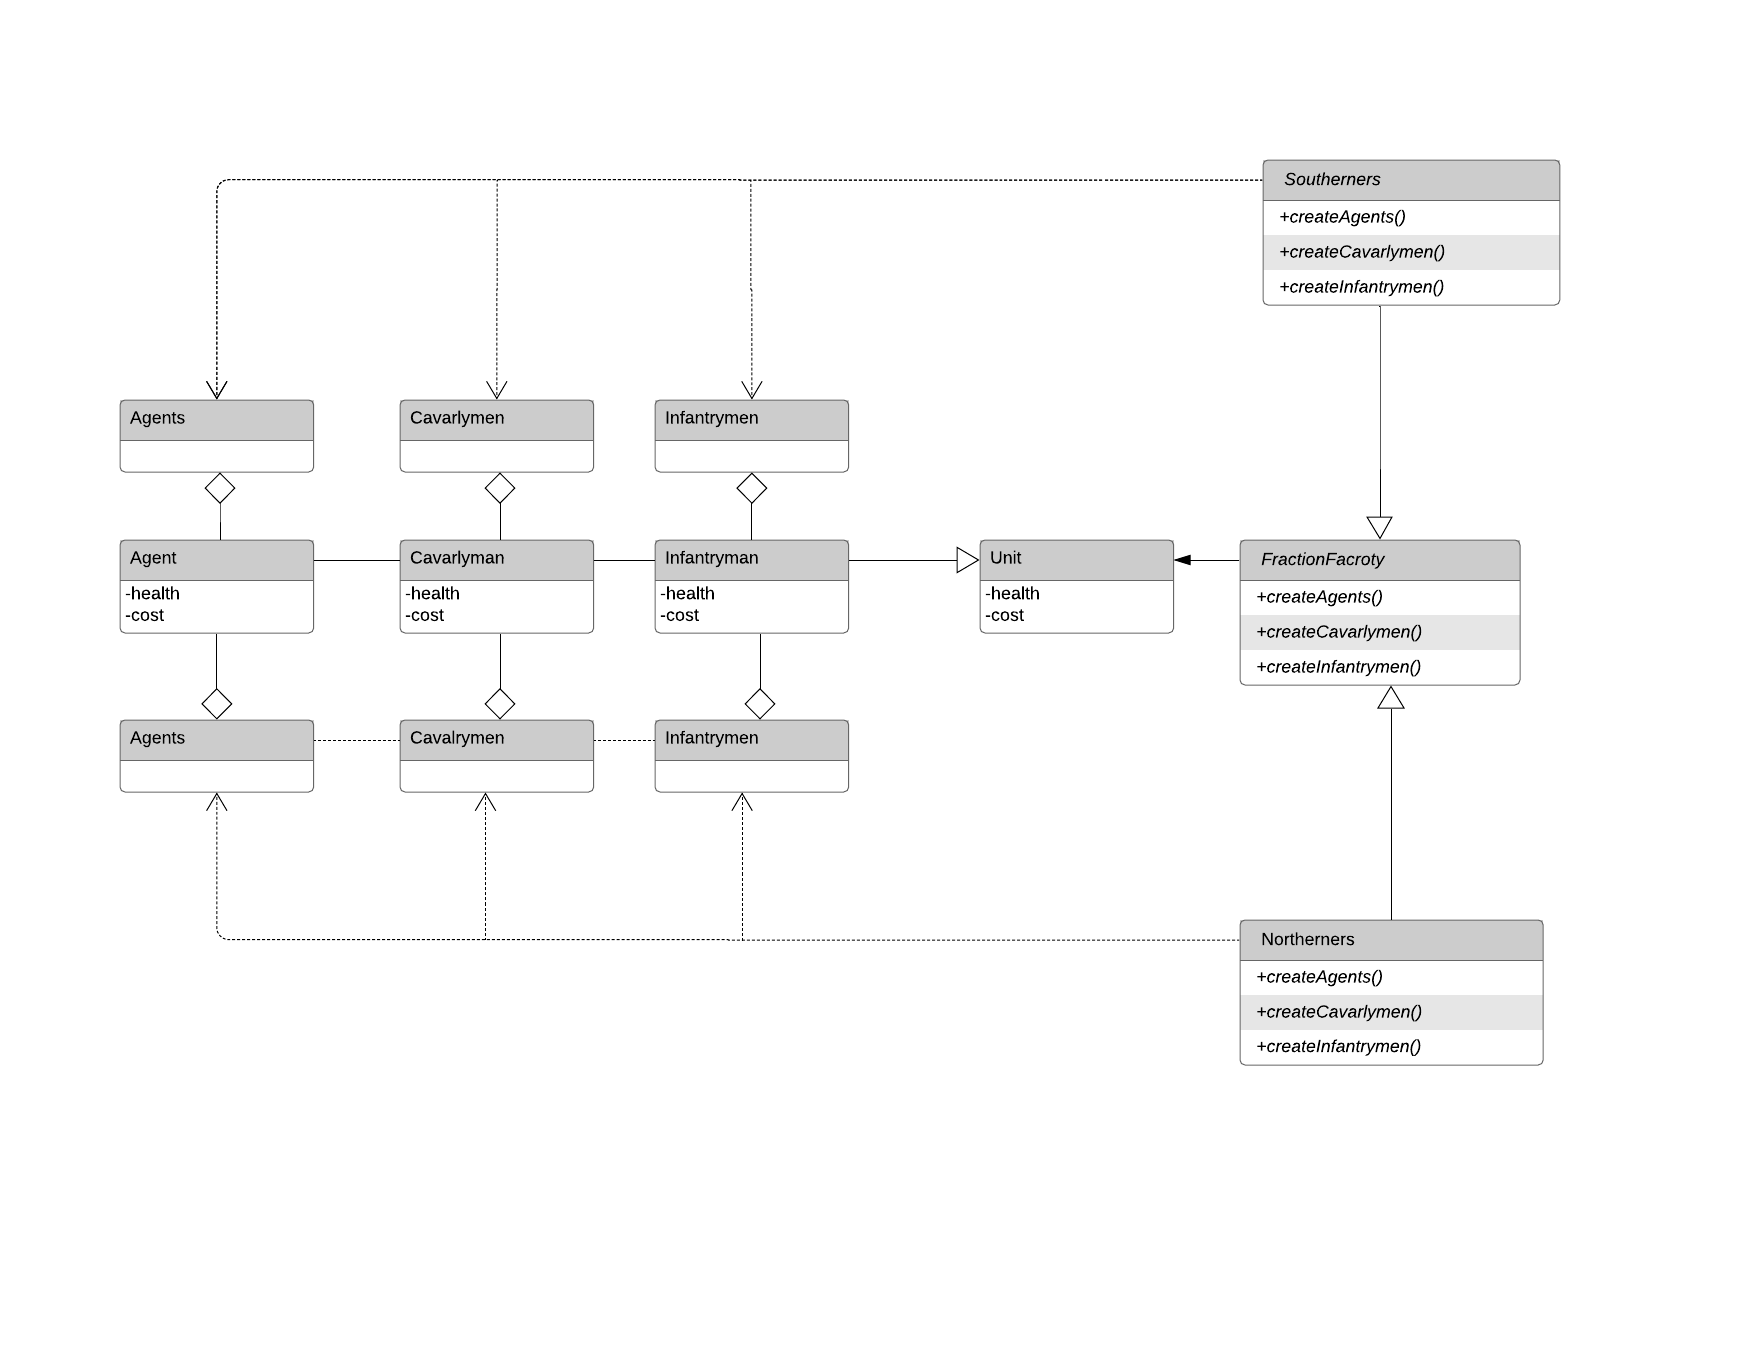
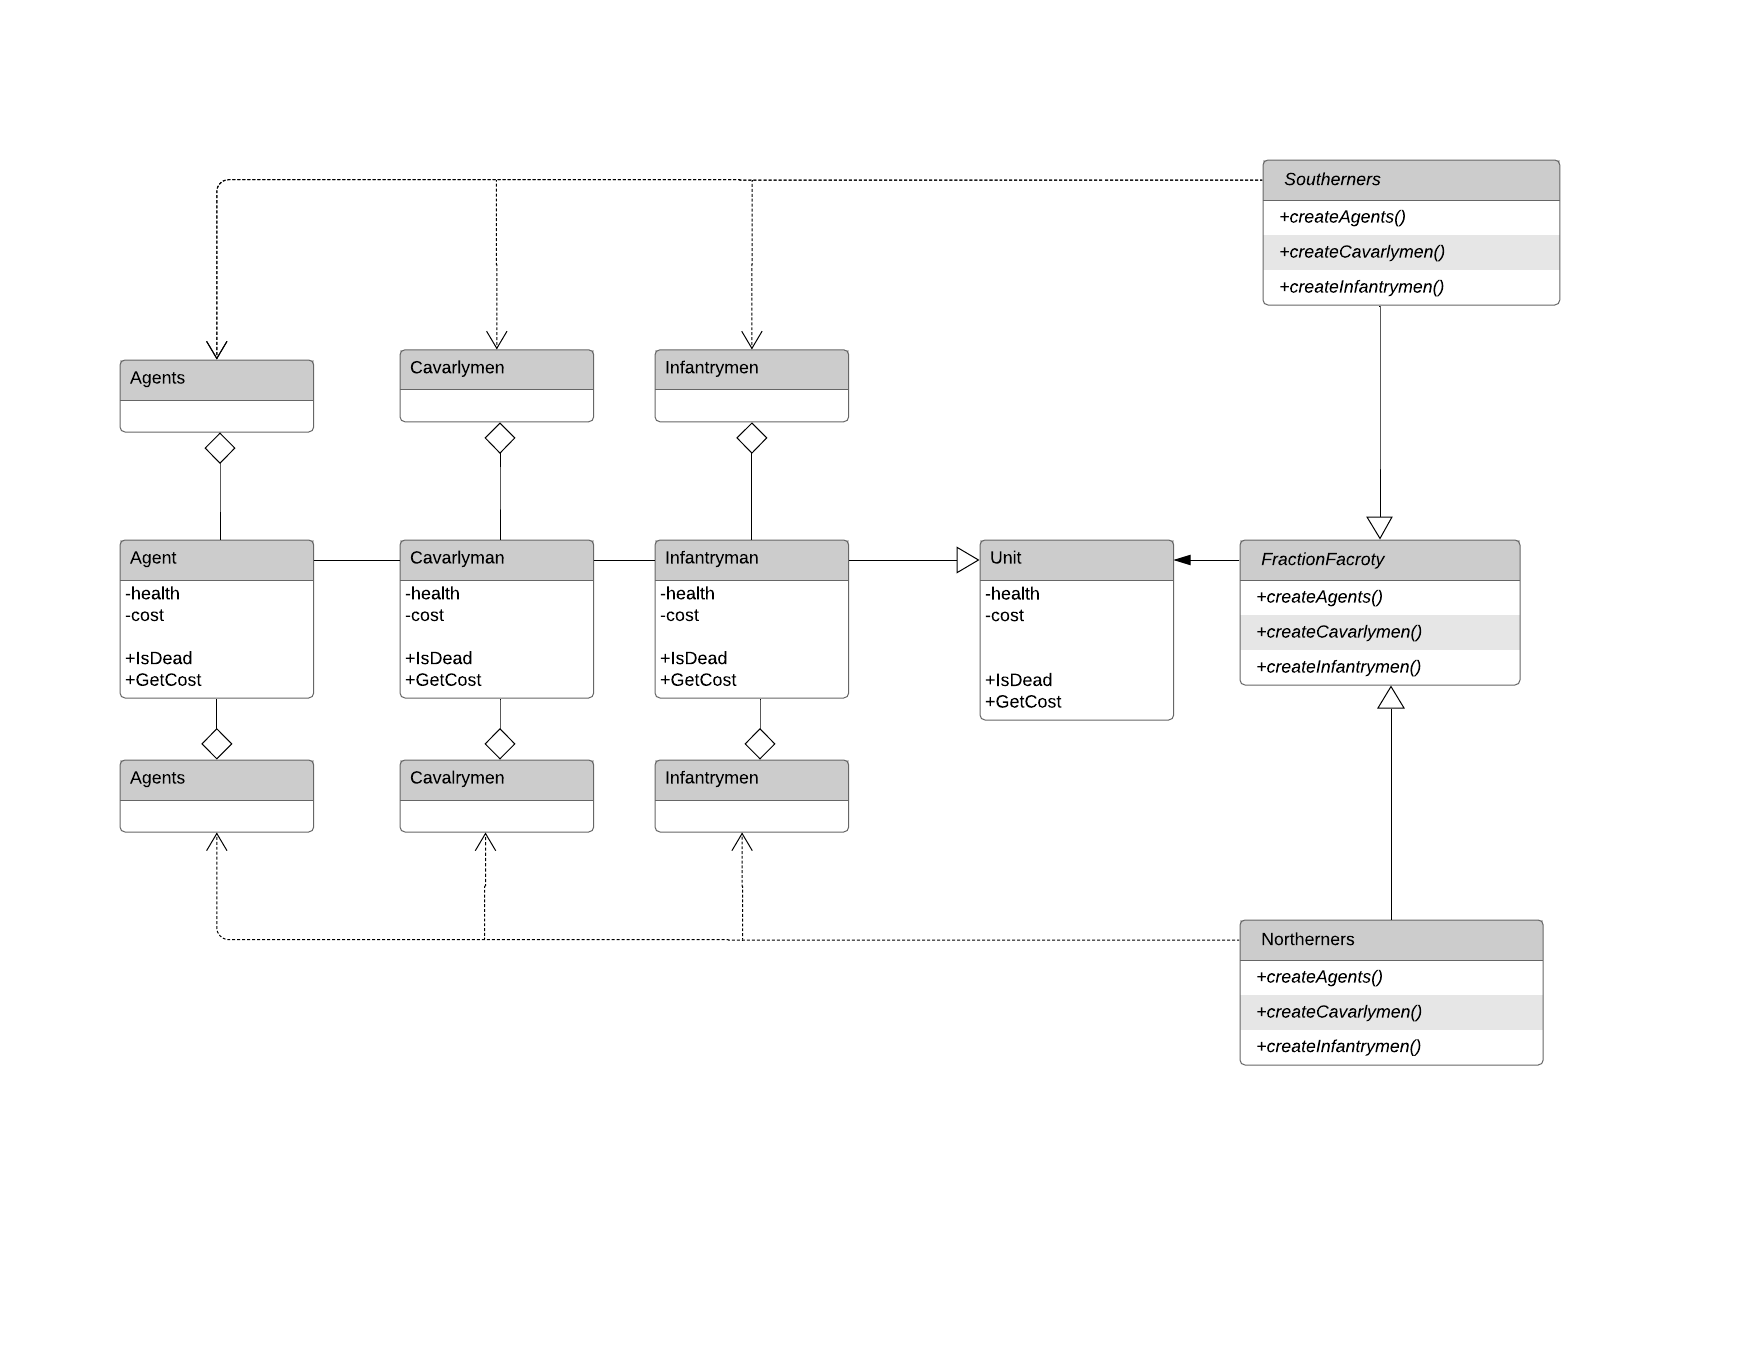
Added tests and divided into folders

diff --git a/tests/tests.cpp b/tests/tests.cpp
@@ -1,0 +1,86 @@
+#include <gtest/gtest.h>
+
+#include "Units.h"
+#include "UnitFactories.h"
+
+class UnitFixture : public ::testing::Test {
+public:
+    virtual ~UnitFixture() {
+        delete u;
+        delete a;
+        delete c;
+        delete i;
+    }
+
+protected:
+    virtual void SetUp() {
+        u = new Unit();
+        a = new Agent();
+        c = new Cavalryman();
+        i = new Infantryman();
+    }
+
+    Unit* u;
+    Agent* a;
+    Cavalryman* c;
+    Infantryman* i;
+};
+
+class FactoryFixture : public ::testing::Test {
+public:
+    virtual ~FactoryFixture() {
+        n->CreateCavalrymen().clear();
+        n->CreateInfantrymen().clear();
+        n->CreateAgents().clear();
+        delete n;
+
+        s->CreateCavalrymen().clear();
+        s->CreateInfantrymen().clear();
+        s->CreateAgents().clear();
+        delete s;
+    }
+
+protected:
+    virtual void SetUp() {
+        n = new Northerners();
+        s = new Southerners();
+    }
+
+    Northerners* n;
+    Southerners* s;
+};
+
+TEST_F(UnitFixture, CheckUnitsCost) {
+    ASSERT_EQ(0, u->GetCost());
+    ASSERT_EQ(1500, a->GetCost());
+    ASSERT_EQ(1000, c->GetCost());
+    ASSERT_EQ(500, i->GetCost());
+    
+}
+
+TEST_F(UnitFixture, CheckUnitStatus) {
+    ASSERT_EQ(true, u->IsDead());
+    ASSERT_EQ(false, a->IsDead());
+    ASSERT_EQ(false, c->IsDead());
+    ASSERT_EQ(false, i->IsDead());
+}
+
+TEST_F(FactoryFixture, CheckNorthernersComplectation) {
+    ASSERT_EQ(n->CreateInfantrymen().size(), 20);
+    ASSERT_EQ(n->CreateAgents().size(), 1);
+    ASSERT_EQ(n->CreateCavalrymen().size(), 15);
+}
+
+TEST_F(FactoryFixture, CheckSouthernersComplectation) {
+    ASSERT_EQ(s->CreateInfantrymen().size(), 20);
+    ASSERT_EQ(s->CreateAgents().size(), 2);
+    ASSERT_EQ(s->CreateCavalrymen().size(), 10);
+}
+
+
+int main(int argc, char **argv) {
+	::testing::InitGoogleTest(&argc, argv);
+	return RUN_ALL_TESTS();
+}
+
+

diff --git a/tests/UnitFactories.h b/tests/UnitFactories.h
@@ -1,0 +1,72 @@
+#ifndef GAME_UNITFACTORIES_H
+#define GAME_UNITFACTORIES_H
+
+#include <vector>
+#include "Units.h"
+
+class Army {
+    std::vector<Cavalryman*> cavalrymen_;
+    std::vector<Infantryman*> infantrymen_;
+    std::vector<Agent*> agents_;
+
+public:
+    Army() = default;
+    ~Army() {
+        cavalrymen_.clear();
+        infantrymen_.clear();
+        agents_.clear();
+    }
+
+    void AddCavalrymen(const std::vector<Cavalryman*> cavalrymen) {
+        for (auto cm : cavalrymen) {
+            cavalrymen_.push_back(cm);
+        }
+    }
+
+    void AddInfantrymen(std::vector<Infantryman*> infantrymen) {
+        for (auto im : infantrymen) {
+            infantrymen_.push_back(im);
+        }
+    }
+
+    void AddAgents(std::vector<Agent*> agents) {
+        for (auto a : agents) {
+            agents_.push_back(a);
+        }
+    }
+};
+
+//abstract factory
+class FractionFactory {
+public:
+    virtual std::vector<Cavalryman*> CreateCavalrymen() = 0;
+    virtual std::vector<Infantryman*> CreateInfantrymen() = 0;
+    virtual std::vector<Agent*> CreateAgents() = 0;
+};
+
+//concrete factory
+class Southerners : public FractionFactory {
+    const static int kCavalrymenCount = 10;
+    const static int kInfantrymenCount = 20;
+    const static int kAgentCount = 2;
+
+public:
+    std::vector<Cavalryman*> CreateCavalrymen() override;
+    std::vector<Infantryman*> CreateInfantrymen() override ;
+    std::vector<Agent*> CreateAgents() override ;
+};
+
+//concrete factory
+class Northerners : public FractionFactory {
+    const static int kCavalrymenCount = 15;
+    const static int kInfantrymenCount = 20;
+    const static int kAgentCount = 1;
+
+public:
+    std::vector<Cavalryman*> CreateCavalrymen() override;
+    std::vector<Infantryman*> CreateInfantrymen() override ;
+    std::vector<Agent*> CreateAgents() override ;
+};
+
+
+#endif //GAME_UNITFACTORIES_H

diff --git a/tests/UnitFactories.cpp b/tests/UnitFactories.cpp
@@ -1,0 +1,67 @@
+#include "UnitFactories.h"
+
+//============ Southerners ============//
+
+std::vector<Cavalryman*> Southerners::CreateCavalrymen() {
+    std::vector<Cavalryman*> cavalrymen;
+    cavalrymen.reserve(kCavalrymenCount);
+
+    for (int i = 0; i < kCavalrymenCount; ++i) {
+        cavalrymen.push_back(new Cavalryman);
+    }
+
+    return cavalrymen;
+}
+
+std::vector<Infantryman*> Southerners::CreateInfantrymen() {
+    std::vector<Infantryman*> infantrymen;
+    infantrymen.reserve(kInfantrymenCount);
+    for (int i = 0; i < kInfantrymenCount; ++i) {
+        infantrymen.push_back(new Infantryman);
+    }
+
+    return infantrymen;
+}
+
+std::vector<Agent*> Southerners::CreateAgents() {
+    std::vector<Agent*> agents;
+    agents.reserve(kAgentCount);
+    for (int i = 0; i < kAgentCount; ++i) {
+        agents.push_back(new Agent);
+    }
+
+    return agents;
+}
+
+//============ Northerners ============//
+
+std::vector<Cavalryman*> Northerners::CreateCavalrymen() {
+    std::vector<Cavalryman*> cavalrymen;
+    cavalrymen.reserve(kCavalrymenCount);
+
+    for (int i = 0; i < kCavalrymenCount; ++i) {
+        cavalrymen.push_back(new Cavalryman);
+    }
+
+    return cavalrymen;
+}
+
+std::vector<Infantryman*> Northerners::CreateInfantrymen() {
+    std::vector<Infantryman*> infantrymen;
+    infantrymen.reserve(kInfantrymenCount);
+    for (int i = 0; i < kInfantrymenCount; ++i) {
+        infantrymen.push_back(new Infantryman);
+    }
+
+    return infantrymen;
+}
+
+std::vector<Agent*> Northerners::CreateAgents() {
+    std::vector<Agent*> agents;
+    agents.reserve(kAgentCount);
+    for (int i = 0; i < kAgentCount; ++i) {
+        agents.push_back(new Agent);
+    }
+
+    return agents;
+}

diff --git a/tests/Units.h b/tests/Units.h
@@ -1,0 +1,56 @@
+#ifndef GAME_UNITS_H
+#define GAME_UNITS_H
+
+class Unit {
+protected:
+    int health_ = 0;
+    int cost_ = 0;
+
+public:
+    Unit() = default;
+    ~Unit() = default;
+
+    bool IsDead() {
+        return health_ <= 0;
+    }
+
+    int GetCost() {
+        return cost_;
+    }
+};
+
+class Agent : public Unit {
+    const static int kAgentHealth = 150;
+    const static int kAgentCost = 1500;
+
+public:
+    Agent() : Unit() {
+        health_ = kAgentHealth;
+        cost_ = kAgentCost;
+    }
+};
+
+class Cavalryman : public Unit {
+    const static int kCavalrymanHealth = 100;
+    const static int kCavalrymanCost = 1000;
+
+public:
+    Cavalryman() : Unit() {
+        health_ = kCavalrymanHealth;
+        cost_ = kCavalrymanCost;
+    }
+};
+
+class Infantryman : public Unit {
+    const static int kInfantrymanHealth = 50;
+    const static int kInfantrymanCost = 500;
+
+public:
+    Infantryman() : Unit() {
+        health_ = kInfantrymanHealth;
+        cost_ = kInfantrymanCost;
+    }
+};
+
+
+#endif //GAME_UNITS_H

diff --git a/README.md b/README.md
@@ -1,10 +1,29 @@
 # Battle in the Whispering forest
 
 Есть две фракции - южане(армия Джейме Ланнистера) и северяне(армия Робба старка).
+
 Все юниты имеют общий интерфейс, но могут отличаться реализацией, например, по-разному атакуют других юнитов, имеют разное начальное состояние здоровья. Чтобы не привязывать код программы к конкретным классам, не применять каждый раз условные операторы, а также иметь возможность легко добавлять новые типы юнитов, в Unit.h реализован паттерн фабричный метод: классы Cavalryman, Infantryman и Agent унаследованы от класса Unit.
 
-Ещё одна проблема: мы хотим иметь две фракции и чтобы каждая фракция имела свои наборы юнитов, которые могут различаться, например, армию южан-пехотинцев, серерян-пехотинцев, южан-наездников, северян-наездников и так далее. Создавать семейства связанных объектов и не привязываться к конкретным классам создаваемых нами объектов позволяет паттерн абстрактная фабрика, который в будущем сможет упростить добавление новых наборов юнитов в программу, если мы захотим расширяться. Итак, в UnitFactories.h создаётся абстрактная фабрика FractionFactory, от которой нас. Они создают наборы юнитов при помощи методов CreateCavalrymen(), CreateInfantrymen(), CreateAgents(). Cavalrymen, Infantrymen, Agents от двух фракций - конкрутные продукты, связанные по смыслу и включающие в себя классы Cavalryman, Infantryman и Agent, которые можно считать абстрактными продуктами.
+Ещё одна проблема: мы хотим иметь две фракции и чтобы каждая фракция имела свои наборы юнитов, которые могут различаться, например, армию южан-пехотинцев, серерян-пехотинцев, южан-наездников, северян-наездников и так далее. Создавать семейства связанных объектов и не привязываться к конкретным классам создаваемых нами объектов позволяет паттерн абстрактная фабрика, который в будущем сможет упростить добавление новых наборов юнитов в программу, если мы захотим расширяться. Итак, в UnitFactories.h создаётся абстрактная фабрика FractionFactory, от которой наследуются конкретные фабрики Northerners и Southerners. Они создают наборы юнитов при помощи методов CreateCavalrymen(), CreateInfantrymen(), CreateAgents(). Cavalrymen, Infantrymen, Agents от двух фракций - конкрутные продукты, связанные по смыслу и включающие в себя классы Cavalryman, Infantryman и Agent, которые можно считать абстрактными продуктами.
 
-Как запустить: cmake && make.
+Параметры запуска программы:
+
+> > mkdir build
+> > cd build
+> > cmake <path/to/dir>/game
+> > make
+> > ./game
+
+Тестирование. В первой части два набора тестов - на отдельных юнитов(их начальное состояние) и на фабрики(начальная комплектация армий).
+
+Параметры запуска тестов:
+
+> > mkdir build
+> > cd build
+> > cmake <path/to/dir>/tests
+> > tests
+> > ./tests
+
+
 
 
